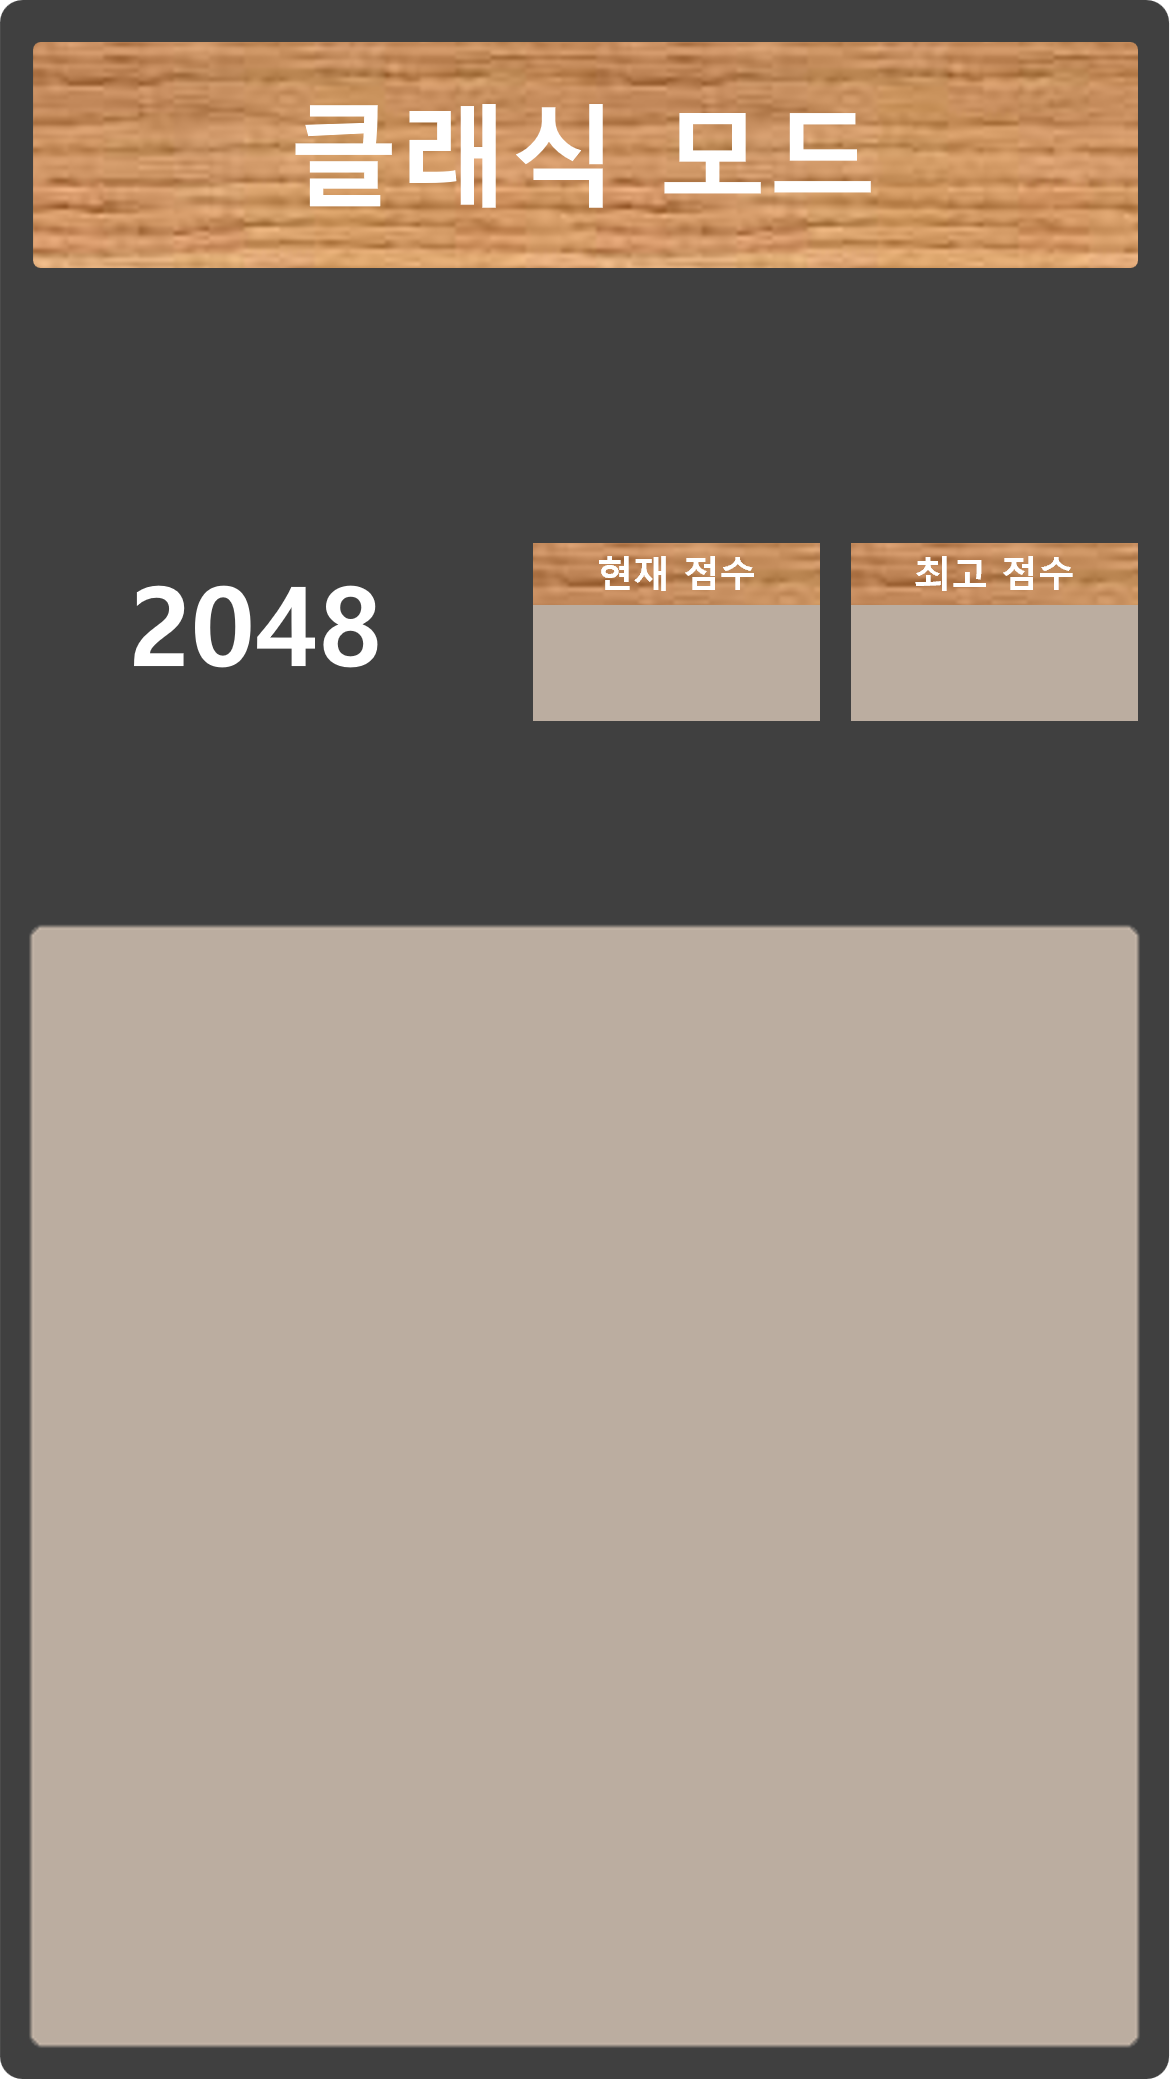
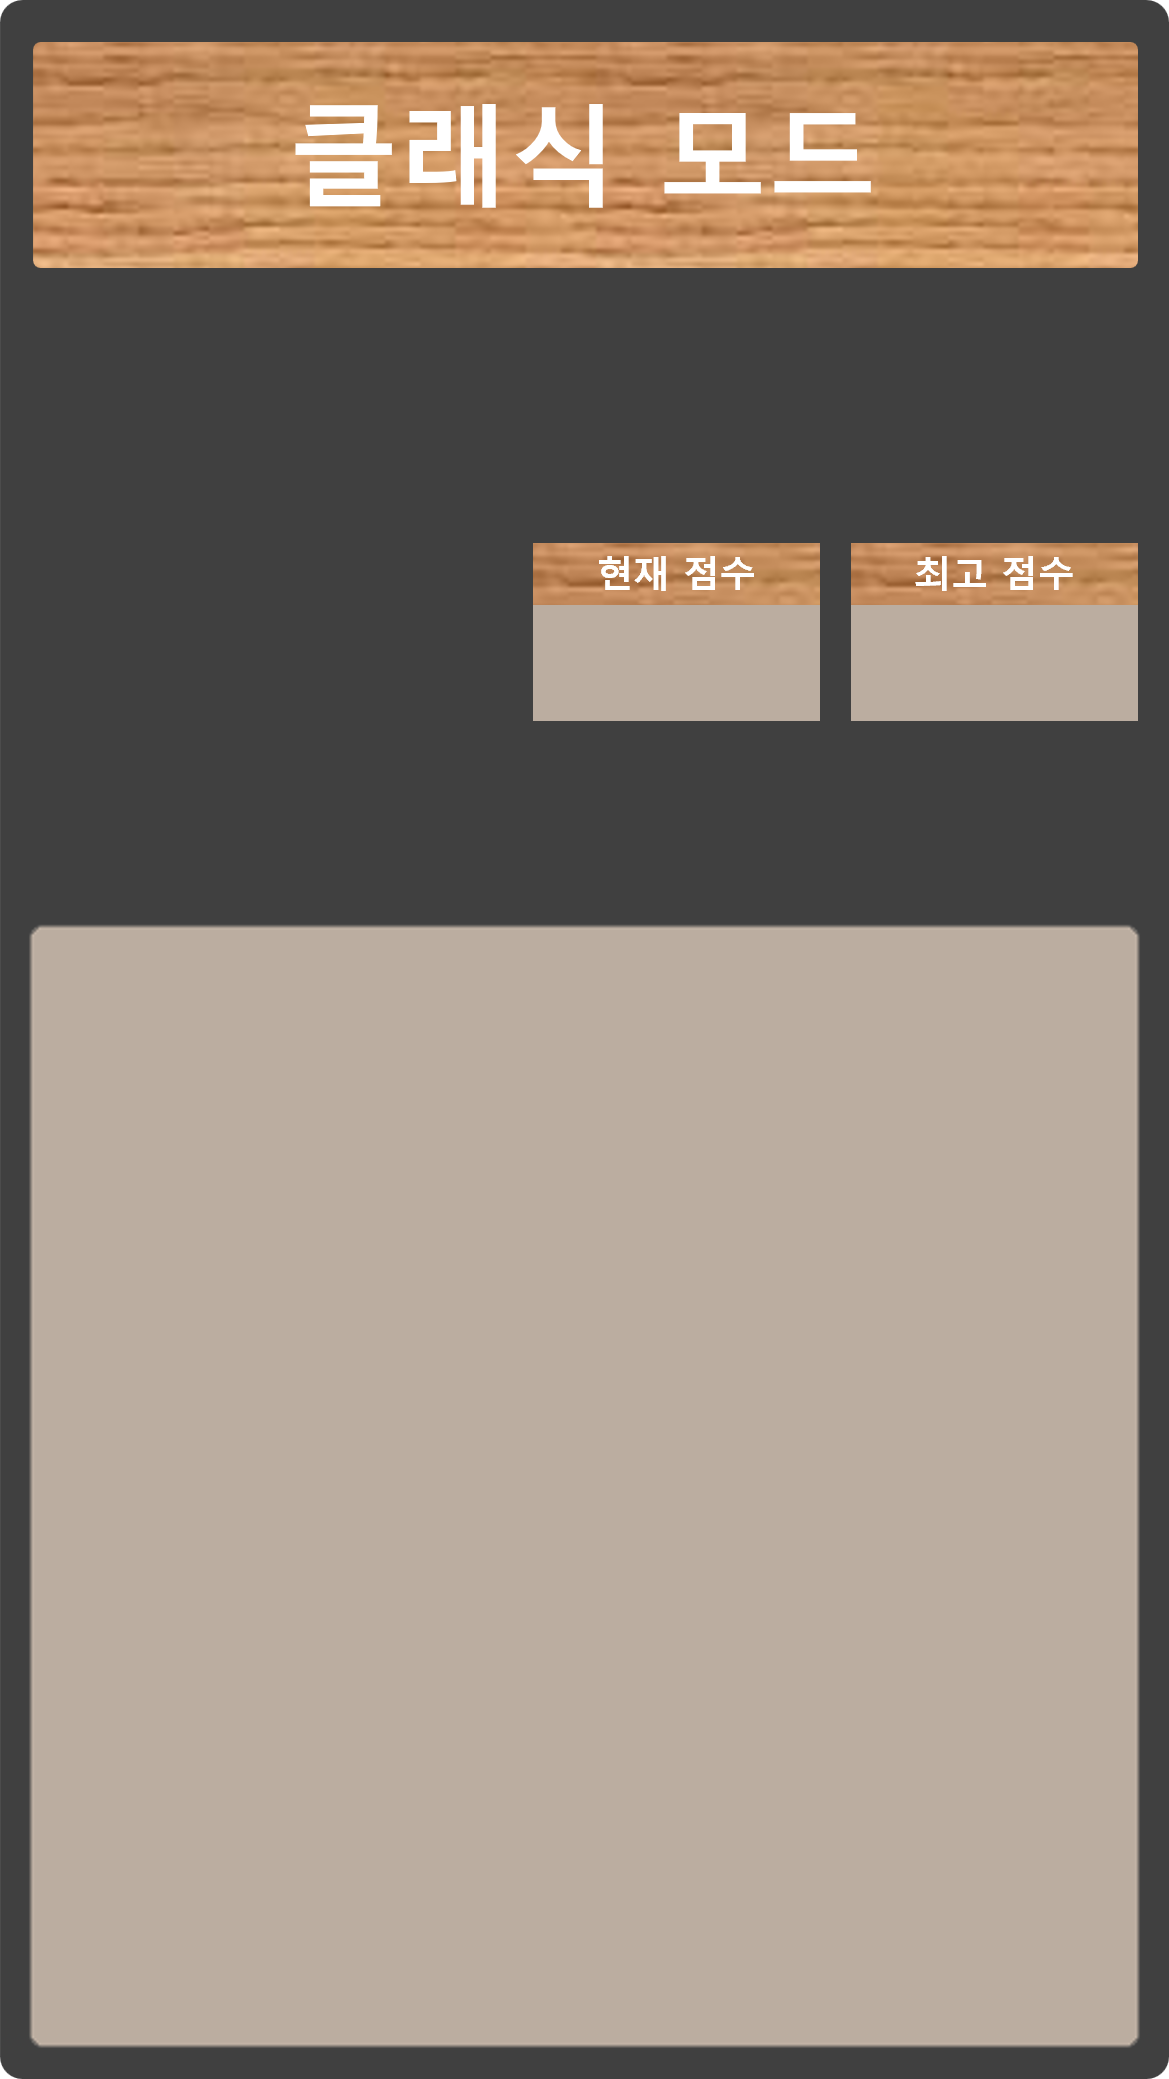
Mode Update
Infinity Mode, Practice Mode

Changed region(s): [[0.1232, 0.2771, 0.3388, 0.3386], [0.9855, 0.9851, 1.0, 1.0]]

diff --git a/2048-Master/Assets/Scripts/SinglePlay/Classic/Board.cs b/2048-Master/Assets/Scripts/SinglePlay/Classic/Board.cs
@@ -35,6 +35,7 @@ public class Board : MonoBehaviour, IPointerDownHandler, IPointerUpHandler
     } 
 
 
+
     // Create Board and Node
     private static Board _inst;
     public List<NodeObject> realNodeList = new List<NodeObject>(); 
@@ -50,11 +51,14 @@ public class Board : MonoBehaviour, IPointerDownHandler, IPointerUpHandler
 
 
     // GameData Load, Save, NewGame, Undo, Redo
+    public bool isReloading;
+    public SinglePlayMode gameMode;
     public GameData gameData;
     public StateData stateData;
+    public string path_gameMode;
     public string path_gameData;
     public string path_stateData;
-    public bool isReloading;
+   
 
 
     // Touch Event
@@ -95,6 +99,7 @@ public class Board : MonoBehaviour, IPointerDownHandler, IPointerUpHandler
     }
     public void NewGameButton()
     {
+        //ClearJson();
         ClearGame();
         SaveToJson();
         isReloading = true;
@@ -122,22 +127,31 @@ public class Board : MonoBehaviour, IPointerDownHandler, IPointerUpHandler
     {
         isReloading = false;
 
-        gameData = new GameData();
-        path_gameData = Path.Combine(Application.persistentDataPath, "GameData.json");
+        gameMode = new SinglePlayMode();
+        path_gameMode = Path.Combine(Application.persistentDataPath, "SinglePlayMode.json");
+        if (File.Exists(path_gameMode))
+        {
+            string loadJson = File.ReadAllText(path_gameMode);
+            gameMode = JsonUtility.FromJson<SinglePlayMode>(loadJson);
+            if (gameMode == null) gameMode = new SinglePlayMode();
+        }
+
+        gameData = new GameData() { targetBlockNumber = new Dictionary<string, int> { { "ClassicMode", 2048 }, { "InfinityMode", 1073741824 }, { "PracticeMode", 2048 } }[gameMode.modeName] };
+        path_gameData = Path.Combine(Application.persistentDataPath, gameMode.modeName + "GameData.json");
         if (File.Exists(path_gameData))
         {
             string loadJson = File.ReadAllText(path_gameData);
             gameData = JsonUtility.FromJson<GameData>(loadJson);
-            if (gameData == null) gameData = new GameData();
+            if (gameData == null) gameData = new GameData() { targetBlockNumber = new Dictionary<string, int> { { "ClassicMode", 2048 }, { "InfinityMode", 1073741824 }, { "PracticeMode", 2048 } }[gameMode.modeName] };
         }
 
-        stateData = new StateData() { maxStateNum = 3 };
-        path_stateData = Path.Combine(Application.persistentDataPath, "StateData.json");
+        stateData = new StateData() { stateDataCount = new Dictionary<string, int> { { "ClassicMode", 1 }, { "InfinityMode", 1 }, { "PracticeMode", 10 } }[gameMode.modeName] };
+        path_stateData = Path.Combine(Application.persistentDataPath, gameMode.modeName + "StateData.json");
         if (File.Exists(path_stateData))
         {
             string loadJson = File.ReadAllText(path_stateData);
             stateData = JsonUtility.FromJson<StateData>(loadJson);
-            if (stateData == null) stateData = new StateData() { maxStateNum = 3 };
+            if (stateData == null) stateData = new StateData() { stateDataCount = new Dictionary<string, int> { { "ClassicMode", 1 }, { "InfinityMode", 1 }, { "PracticeMode", 10 } }[gameMode.modeName] };
         }
     }
     private void SaveGame()
@@ -178,6 +192,7 @@ public class Board : MonoBehaviour, IPointerDownHandler, IPointerUpHandler
     private void NewBoard()
     {
         /* first initialize Score Board */
+        GameObject.Find("TargetNumber").GetComponent<TextMeshProUGUI>().text = new Dictionary<int, string> { { 2048, "2048" }, { 1073741824, "Infinity" } }[gameData.targetBlockNumber];
         GameObject.Find("CurrScore").GetComponent<TextMeshProUGUI>().text = gameData.currScore.ToString();
         GameObject.Find("HighScore").GetComponent<TextMeshProUGUI>().text = gameData.highScore.ToString();
 
@@ -231,6 +246,7 @@ public class Board : MonoBehaviour, IPointerDownHandler, IPointerUpHandler
         else
         {
             /* first initialize Score Board */
+            GameObject.Find("TargetNumber").GetComponent<TextMeshProUGUI>().text = new Dictionary<int, string> { { 2048, "2048" }, { 1073741824, "Infinity" } }[gameData.targetBlockNumber];
             GameObject.Find("CurrScore").GetComponent<TextMeshProUGUI>().text = gameData.currScore.ToString();
             GameObject.Find("HighScore").GetComponent<TextMeshProUGUI>().text = gameData.highScore.ToString();
 
@@ -331,6 +347,7 @@ public class Board : MonoBehaviour, IPointerDownHandler, IPointerUpHandler
 
         gameData.currScore += to.value.GetValueOrDefault();
         gameData.highScore = Mathf.Max(gameData.highScore, gameData.currScore);
+        gameData.highestBlockNumber = Mathf.Max(gameData.highestBlockNumber, to.value.GetValueOrDefault());
         GameObject.Find("CurrScore").GetComponent<TextMeshProUGUI>().text = gameData.currScore.ToString();
         GameObject.Find("HighScore").GetComponent<TextMeshProUGUI>().text = gameData.highScore.ToString();
     }
@@ -537,6 +554,11 @@ public class Board : MonoBehaviour, IPointerDownHandler, IPointerUpHandler
         Debug.Log("Game Over!!!!");
     }
 
+    public void OnGameEnd()
+    {
+        Debug.Log("Congratulations!!!!");
+    }
+
     public void UpdateState()
     {
         bool targetAllNull = true;
@@ -575,8 +597,9 @@ public class Board : MonoBehaviour, IPointerDownHandler, IPointerUpHandler
             CreateRandom();
 
             //--- State Save For UndoRedo ---//
-            SaveGame();
+            SaveGame();        
             stateData.AddState(gameData);
+            if (gameData.highestBlockNumber >= gameData.targetBlockNumber) { OnGameEnd(); }
         }
     }
 

diff --git a/2048-Master/Assets/Scripts/SinglePlay/Classic/SinglePlayPage.cs b/2048-Master/Assets/Scripts/SinglePlay/Classic/SinglePlayPage.cs
@@ -1,0 +1,54 @@
+using System.Collections;
+using System.Collections.Generic;
+using UnityEngine;
+
+using UnityEngine.SceneManagement;
+using System.IO;
+
+
+[System.Serializable]
+public class SinglePlayMode
+{
+    public string modeName = "";
+    public string GetJson() => JsonUtility.ToJson(this, true);
+}
+
+
+public class SinglePlayPage : MonoBehaviour
+{
+    public void Awake()
+    {
+     //   DataClear();
+    }
+
+    public void ClassicModeButton()
+    {
+        string path = Path.Combine(Application.persistentDataPath, "SinglePlayMode.json");
+        File.WriteAllText(path, new SinglePlayMode { modeName = "ClassicMode" }.GetJson());
+        SceneManager.LoadScene("Game");
+    }
+
+    public void InfinityModeButton()
+    {
+        string path = Path.Combine(Application.persistentDataPath, "SinglePlayMode.json");
+        File.WriteAllText(path, new SinglePlayMode { modeName = "InfinityMode" }.GetJson());
+        SceneManager.LoadScene("Game");
+    }
+
+    public void PracticeModeButton()
+    {
+        string path = Path.Combine(Application.persistentDataPath, "SinglePlayMode.json");
+        File.WriteAllText(path, new SinglePlayMode { modeName = "PracticeMode" }.GetJson());
+        SceneManager.LoadScene("Game");
+    }
+
+    public void DataClear()
+    {
+        File.WriteAllText(Path.Combine(Application.persistentDataPath, "ClassicMode" + "GameData.json"), null);
+        File.WriteAllText(Path.Combine(Application.persistentDataPath, "ClassicMode" + "StateData.json"), null);
+        File.WriteAllText(Path.Combine(Application.persistentDataPath, "InfinityMode" + "GameData.json"), null);
+        File.WriteAllText(Path.Combine(Application.persistentDataPath, "InfinityMode" + "StateData.json"), null);
+        File.WriteAllText(Path.Combine(Application.persistentDataPath, "PracticeMode" + "GameData.json"), null);
+        File.WriteAllText(Path.Combine(Application.persistentDataPath, "PracticeMode" + "StateData.json"), null);
+    }
+}

diff --git a/2048-Master/Assets/Scripts/SinglePlay/Classic/GameData.cs b/2048-Master/Assets/Scripts/SinglePlay/Classic/GameData.cs
@@ -6,6 +6,8 @@ using UnityEngine;
 public class GameData
 {
     public bool fixedState = false;
+    public int targetBlockNumber = 0;
+    public int highestBlockNumber = 0;
     public int currScore = 0;
     public int highScore = 0;
     public List<NodeClone> nodeData = new List<NodeClone>();
@@ -15,6 +17,8 @@ public class GameData
     public void clear()
     {
         fixedState = false;
+        targetBlockNumber = 0;
+        highestBlockNumber = 0;
         currScore = 0;
         nodeData = new List<NodeClone>();
     }
@@ -29,6 +33,8 @@ public class GameData
         GameData temp = new GameData();
 
         temp.fixedState = fixedState;
+        temp.targetBlockNumber = targetBlockNumber;
+        temp.highestBlockNumber = highestBlockNumber;
         temp.currScore = currScore;
         temp.highScore = highScore;
         foreach (NodeClone e in nodeData) temp.nodeData.Add(e.Copy());

diff --git a/2048-Master/Assets/Scripts/SinglePlay/Classic/StateData.cs b/2048-Master/Assets/Scripts/SinglePlay/Classic/StateData.cs
@@ -5,7 +5,7 @@ using UnityEngine;
 [System.Serializable]
 public class StateData
 {
-    public int maxStateNum = 1;
+    public int stateDataCount = 1;
     public List<GameData> mainState = new List<GameData>();
     public List<GameData> subState = new List<GameData>();
 
@@ -19,7 +19,7 @@ public class StateData
 
     public void clearAll()
     {
-        maxStateNum = 1;
+        stateDataCount = 1;
         clear();
     }
 
@@ -54,7 +54,7 @@ public class StateData
         mainState.Add(newState.Copy());
         mainState[mainState.Count - 1].fixedState = true;
 
-        if (mainState.Count > maxStateNum + 1) mainState.RemoveAt(0);
+        if (mainState.Count > stateDataCount + 1) mainState.RemoveAt(0);
         subState = new List<GameData>();
     }
 }
